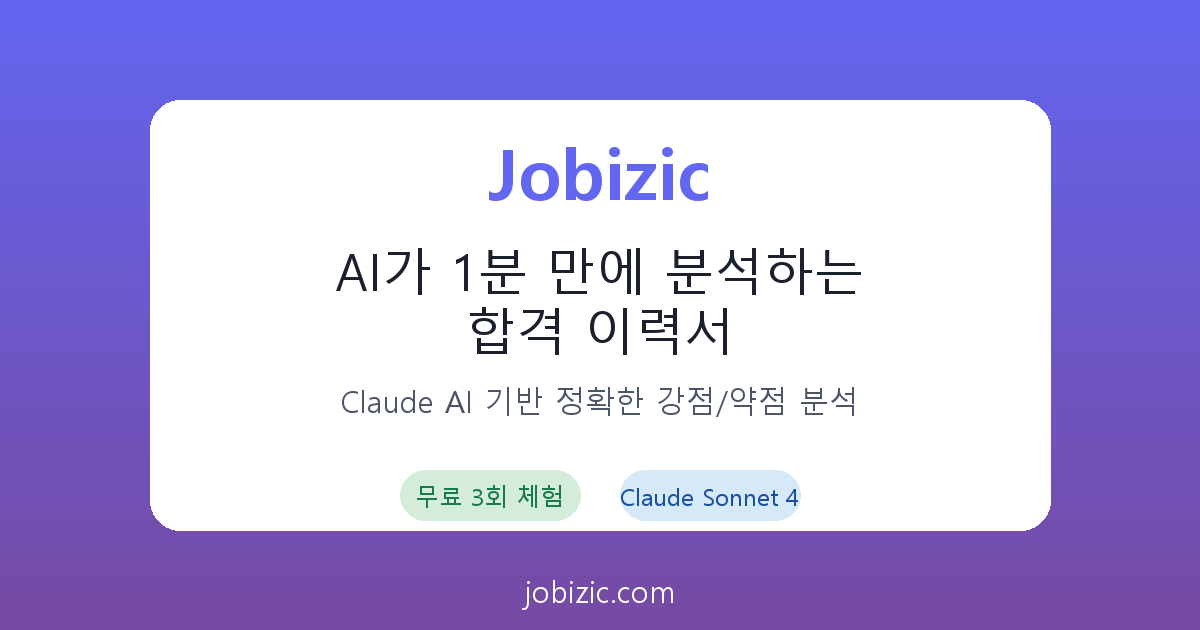
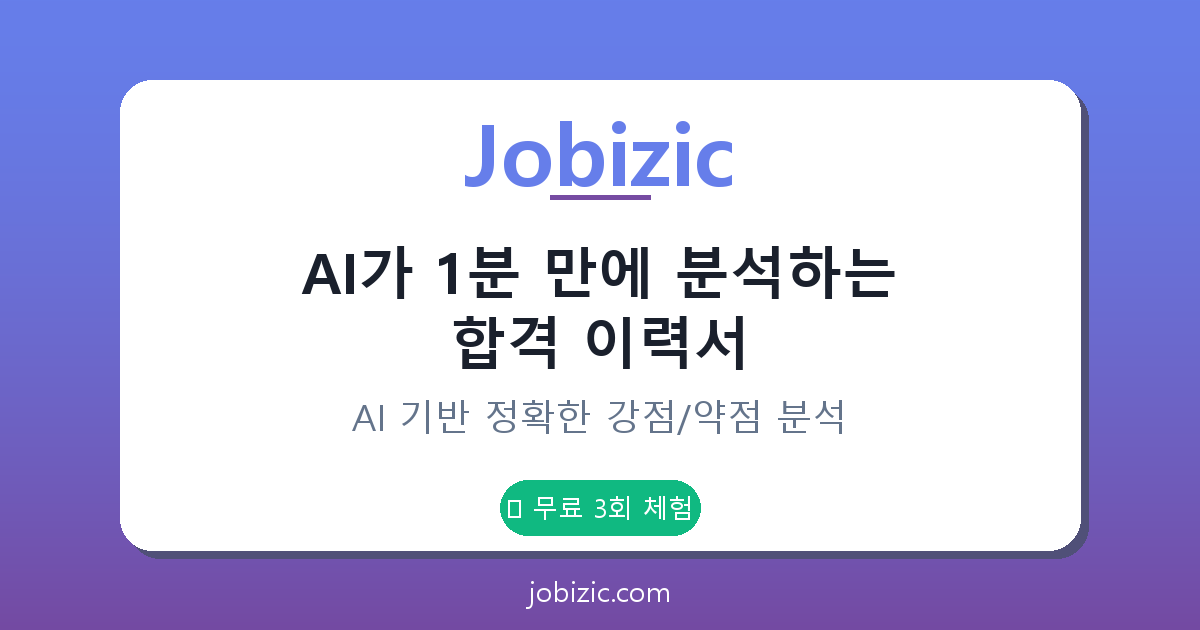
feat: OG 이미지 디자인 개선
Claude 관련 내용 제거 + 디자인 개선

변경사항:
- Claude AI → AI로 변경
- Claude Sonnet 4 배지 제거
- 더 큰 로고 (85px)
- 로고 아래 장식 라인 추가
- 카드 그림자 효과
- 배지 하나로 통합 (무료 3회 체험)
- 더 선명한 초록색 배지
- 부드러운 그라디언트
- 텍스트 간격 최적화

diff --git a/create_og_image.py b/create_og_image.py
@@ -5,84 +5,103 @@ import os
 width = 1200
 height = 630
 
-# 이미지 생성
-img = Image.new('RGB', (width, height), color='#6366f1')  # 보라-파랑 배경
+# 이미지 생성 - 더 세련된 그라디언트
+img = Image.new('RGB', (width, height), color='#667eea')
 
-# 그라디언트 효과 (간단한 버전)
+# 부드러운 그라디언트 효과 (보라-파랑)
 draw = ImageDraw.Draw(img)
 for i in range(height):
-    r = int(99 + (118 - 99) * i / height)
-    g = int(102 + (74 - 102) * i / height)
-    b = int(241 + (162 - 241) * i / height)
+    # 더 부드러운 색상 전환
+    r = int(102 + (116 - 102) * (i / height) ** 1.5)
+    g = int(126 + (74 - 126) * (i / height) ** 1.5)
+    b = int(234 + (162 - 234) * (i / height) ** 1.5)
     draw.rectangle([(0, i), (width, i+1)], fill=(r, g, b))
 
-# 흰색 카드 배경
-card_x = 150
-card_y = 100
-card_width = 900
-card_height = 430
+# 흰색 카드 배경 (더 큰 카드, 그림자 효과)
+card_x = 120
+card_y = 80
+card_width = 960
+card_height = 470
+
+# 그림자 효과 (투명도 없이 어두운 색으로)
+shadow_offset = 8
+shadow_color = (80, 80, 120)
+draw.rounded_rectangle(
+    [(card_x + shadow_offset, card_y + shadow_offset),
+     (card_x + card_width + shadow_offset, card_y + card_height + shadow_offset)],
+    radius=32,
+    fill=shadow_color
+)
+
+# 실제 카드
 draw.rounded_rectangle(
     [(card_x, card_y), (card_x + card_width, card_y + card_height)],
-    radius=30,
+    radius=32,
     fill='white'
 )
 
 try:
     # 시스템 폰트 사용
-    font_large = ImageFont.truetype("C:/Windows/Fonts/malgunbd.ttf", 70)  # 맑은 고딕 Bold
-    font_medium = ImageFont.truetype("C:/Windows/Fonts/malgun.ttf", 50)   # 맑은 고딕
-    font_small = ImageFont.truetype("C:/Windows/Fonts/malgun.ttf", 30)
-    font_tiny = ImageFont.truetype("C:/Windows/Fonts/malgun.ttf", 24)
+    font_logo = ImageFont.truetype("C:/Windows/Fonts/malgunbd.ttf", 85)      # 로고
+    font_large = ImageFont.truetype("C:/Windows/Fonts/malgunbd.ttf", 56)     # 메인
+    font_medium = ImageFont.truetype("C:/Windows/Fonts/malgun.ttf", 36)      # 서브
+    font_small = ImageFont.truetype("C:/Windows/Fonts/malgun.ttf", 26)       # 배지
+    font_url = ImageFont.truetype("C:/Windows/Fonts/malgun.ttf", 28)         # URL
 except:
-    # 폰트 로드 실패 시 기본 폰트
+    font_logo = ImageFont.load_default()
     font_large = ImageFont.load_default()
     font_medium = ImageFont.load_default()
     font_small = ImageFont.load_default()
-    font_tiny = ImageFont.load_default()
+    font_url = ImageFont.load_default()
 
-# 텍스트 추가
-# 1. Jobizic 로고
-draw.text((600, 170), "Jobizic", fill='#6366f1', font=font_large, anchor="mm")
+# 텍스트 중앙 정렬
+center_x = width // 2
 
-# 2. 메인 헤드라인
-draw.text((600, 270), "AI가 1분 만에 분석하는", fill='#1a202c', font=font_medium, anchor="mm")
-draw.text((600, 330), "합격 이력서", fill='#1a202c', font=font_medium, anchor="mm")
+# 1. Jobizic 로고 (더 크고 눈에 띄게)
+draw.text((center_x, 150), "Jobizic", fill='#667eea', font=font_logo, anchor="mm")
+
+# 장식 라인 (로고 아래)
+line_width = 100
+line_y = 195
+draw.rectangle(
+    [(center_x - line_width // 2, line_y), (center_x + line_width // 2, line_y + 4)],
+    fill='#764ba2'
+)
+
+# 2. 메인 헤드라인 (간격 조정)
+draw.text((center_x, 270), "AI가 1분 만에 분석하는", fill='#1a202c', font=font_large, anchor="mm")
+draw.text((center_x, 340), "합격 이력서", fill='#1a202c', font=font_large, anchor="mm")
 
 # 3. 서브 헤드라인
-draw.text((600, 400), "Claude AI 기반 정확한 강점/약점 분석", fill='#4a5568', font=font_small, anchor="mm")
+draw.text((center_x, 415), "AI 기반 정확한 강점/약점 분석", fill='#64748b', font=font_medium, anchor="mm")
 
-# 4. 배지들
-# 무료 3회 배지
-badge1_x = 400
-badge1_y = 470
-badge1_width = 180
-badge1_height = 50
+# 4. 배지 (무료 3회만)
+badge_x = center_x - 100
+badge_y = 480
+badge_width = 200
+badge_height = 55
+
+# 무료 3회 배지 (더 눈에 띄게)
 draw.rounded_rectangle(
-    [(badge1_x, badge1_y), (badge1_x + badge1_width, badge1_y + badge1_height)],
-    radius=25,
-    fill='#d4edda'
+    [(badge_x, badge_y), (badge_x + badge_width, badge_y + badge_height)],
+    radius=28,
+    fill='#10b981'  # 더 선명한 초록
 )
-draw.text((badge1_x + 90, badge1_y + 25), "무료 3회 체험", fill='#1a7a4a', font=font_tiny, anchor="mm")
-
-# Claude Sonnet 4 배지
-badge2_x = 620
-badge2_y = 470
-badge2_width = 180
-badge2_height = 50
-draw.rounded_rectangle(
-    [(badge2_x, badge2_y), (badge2_x + badge2_width, badge2_y + badge2_height)],
-    radius=25,
-    fill='#d6e9f8'
+draw.text(
+    (badge_x + badge_width // 2, badge_y + badge_height // 2),
+    "✓ 무료 3회 체험",
+    fill='white',
+    font=font_small,
+    anchor="mm"
 )
-draw.text((badge2_x + 90, badge2_y + 25), "Claude Sonnet 4", fill='#1a4fa0', font=font_tiny, anchor="mm")
 
-# 5. 하단 URL
-draw.text((600, 590), "jobizic.com", fill='white', font=font_small, anchor="mm")
+# 5. 하단 URL (더 눈에 띄게)
+draw.text((center_x, 590), "jobizic.com", fill='white', font=font_url, anchor="mm")
 
 # 저장
 output_path = os.path.join(os.path.dirname(__file__), 'public', 'og-image.png')
 os.makedirs(os.path.dirname(output_path), exist_ok=True)
-img.save(output_path, 'PNG')
+img.save(output_path, 'PNG', optimize=True, quality=95)
 
 print(f"OG image created: {output_path}")
 print(f"Size: {width}x{height}px")
